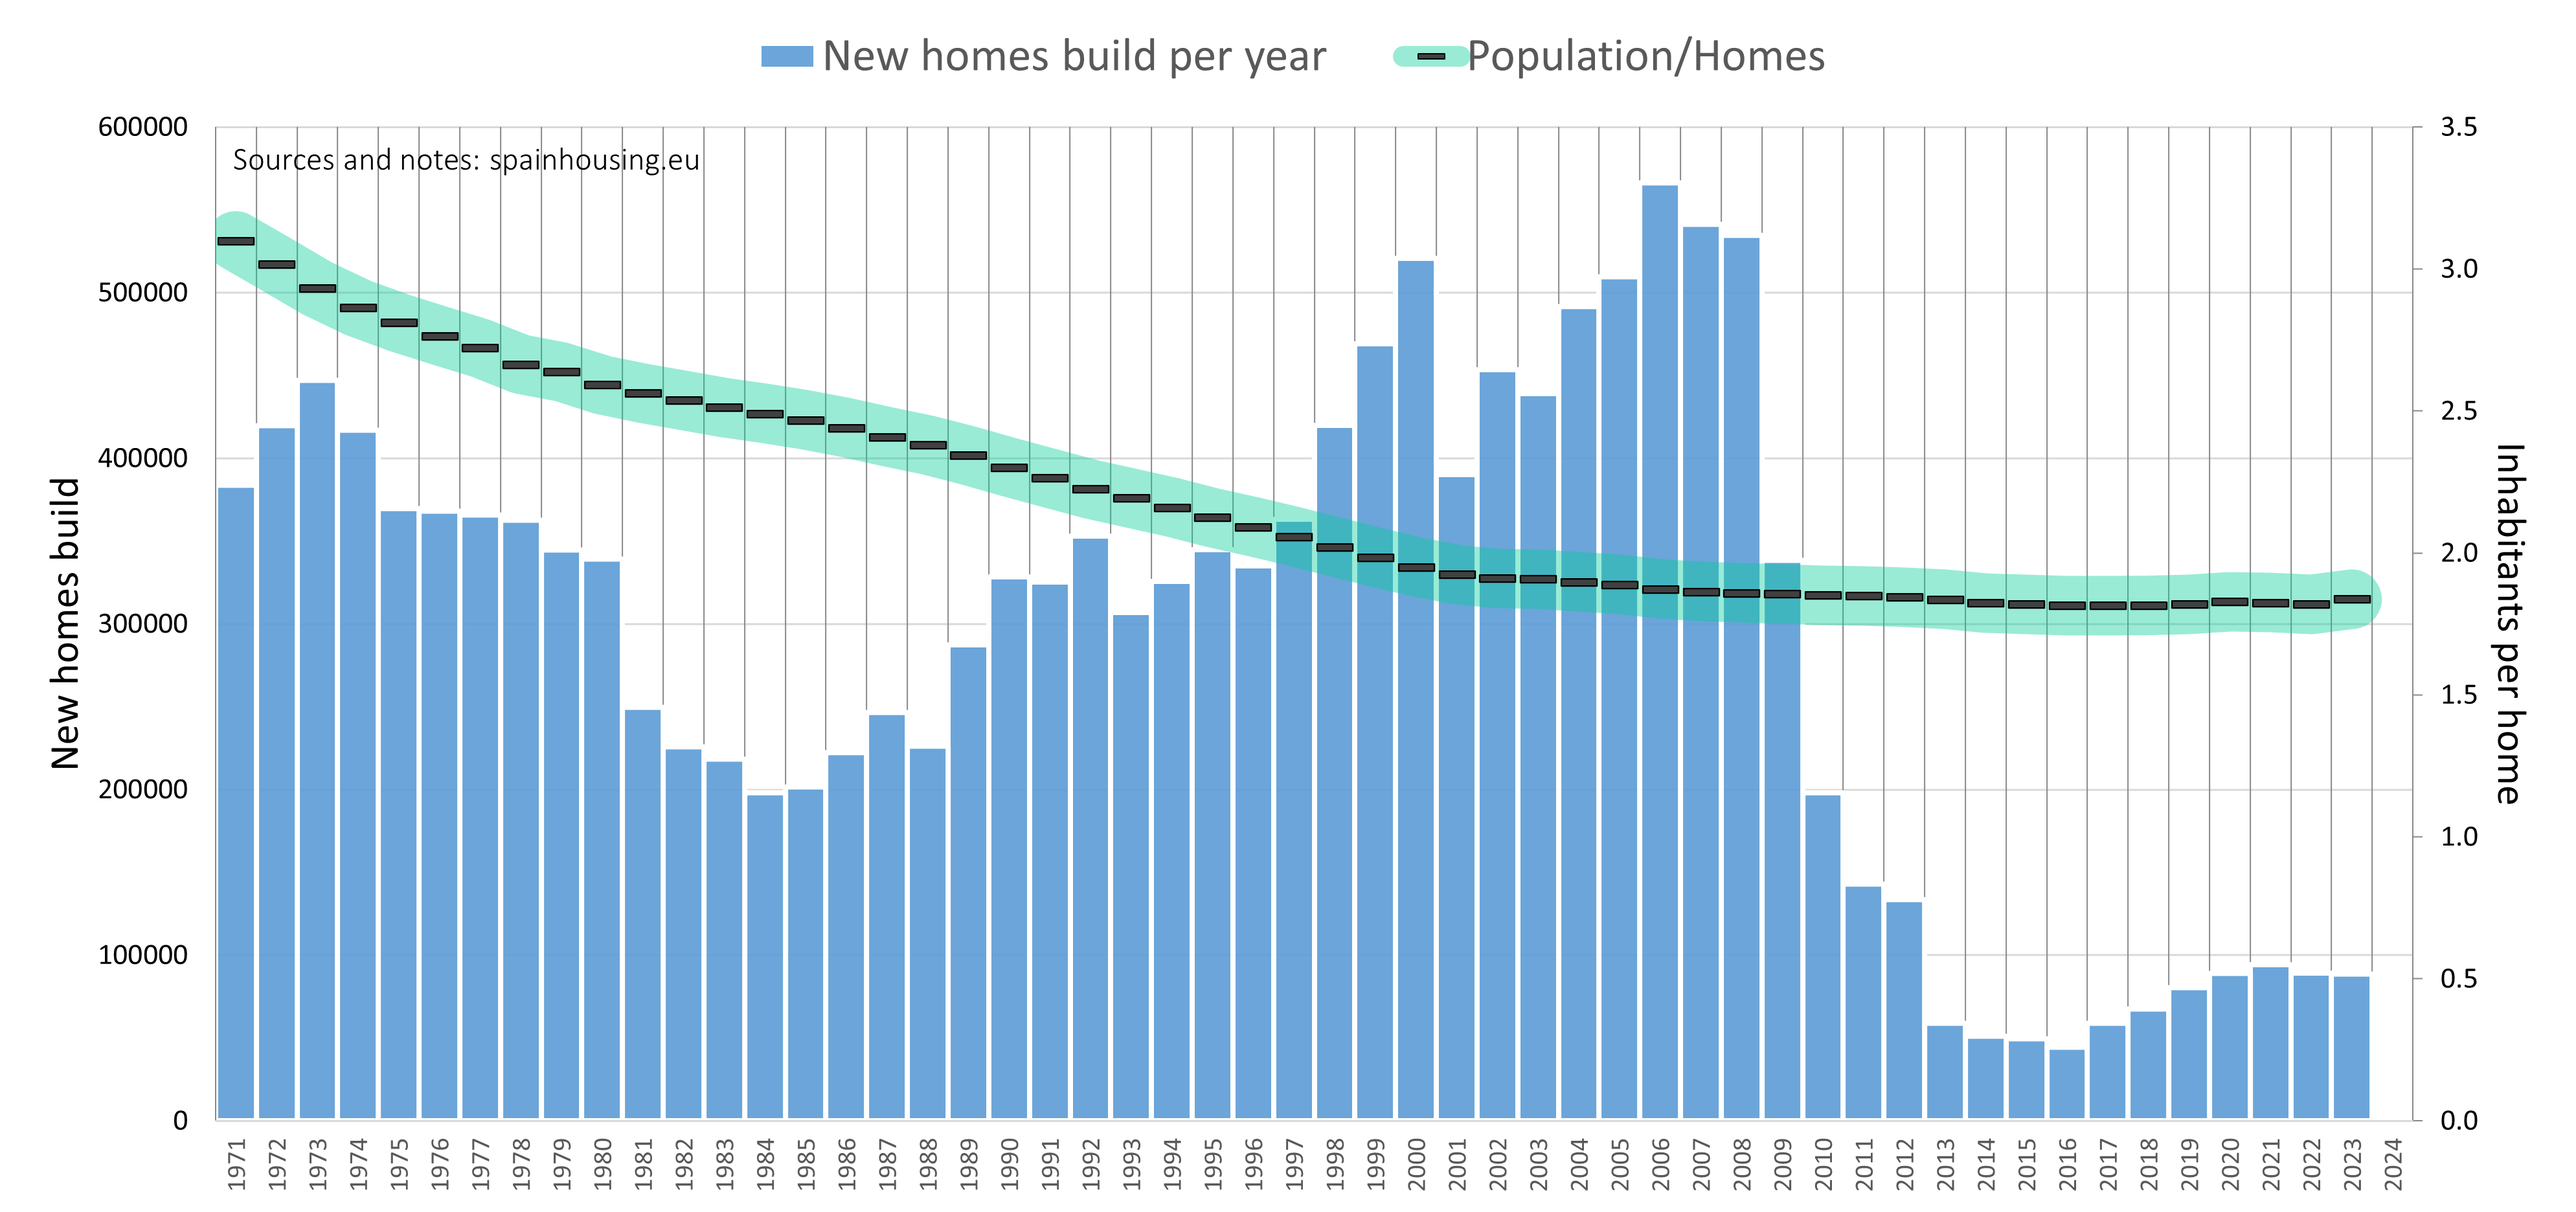
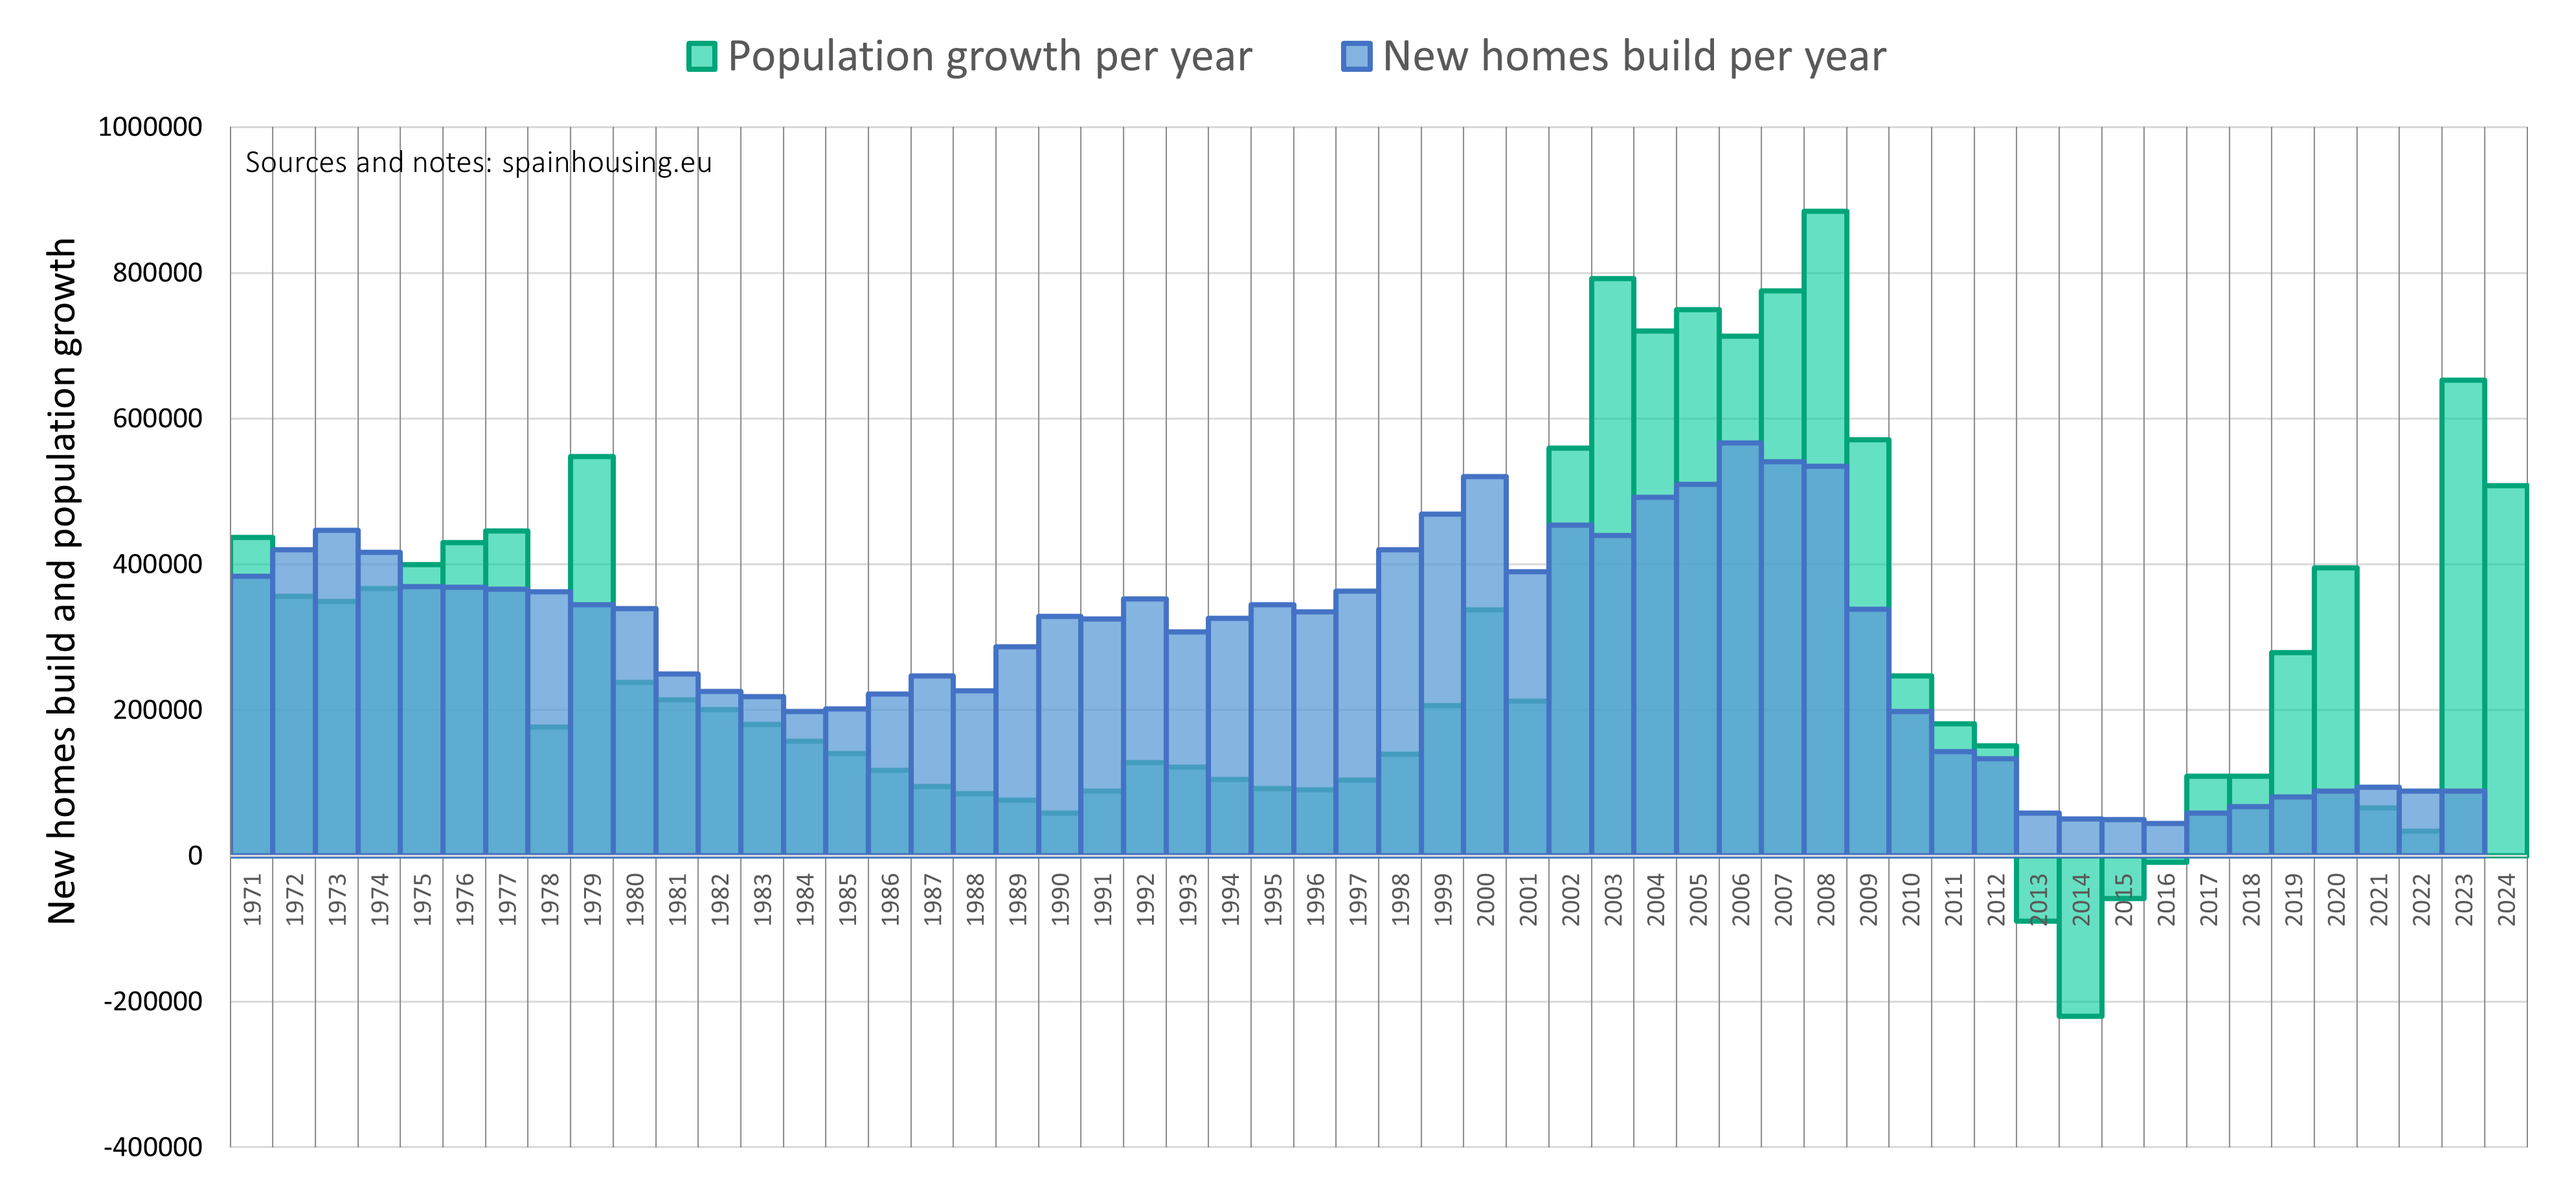
update

diff --git a/pages/posts/stock.md b/pages/posts/stock.md
@@ -14,10 +14,8 @@ import Image from 'next/image'
 
 [![Número de viviendas](/images/stockyearly.png)](/images/stockyearly.png)
 
-- **Number of dwellings**: new homes built annually since 1971.
-  - **Left axis (bars)**: total number of new dwellings per year.
-  - **Right axis (line)**: number of inhabitants per dwelling. Detailed map **[here](housescarcity)**.
-- **Observation**: the ratio of inhabitants per dwelling stopped decreasing in the middle 2010s, hinting disruption in the supply balance that could lead to price increases.
+- **Number of dwellings and population growth**: new homes built and population change year on year since 1971.
+- **Observation**: explore on this **[map](housescarcity)** the number of inhabitants per dwelling and municipality.
 
 [![Estoc y balance de viviendas](/images/stockbalance.png)](/images/stockbalance.png)
 

diff --git a/pages/posts/sitemap.md b/pages/posts/sitemap.md
@@ -12,8 +12,8 @@ author: Collection of all the 46 charts published in the site
 
 + _General models_
   * (1) [Multivariate model, housing overview](/images/multivariate.png)
-  * (2) [Rainbow model, short-term, housing cycles](/images/rainbow.png)
-  * (3) [Rainbow model, long-term, housing cycles](/images/rainbowmax.png)
+  * (2) [Housing cyles, peaks and troughs](/images/rainbow.png)
+  * (3) [Rainbow model, long-term](/images/rainbowmax.png)
 + _Price_
   * (4) [Annual evolution of housing prices](/images/priceyearly.png)
   * (5) [Case-Shiller housing index](/images/ipvvr.png)

diff --git a/pages/posts/credit.md b/pages/posts/credit.md
@@ -26,7 +26,7 @@ import Image from 'next/image'
 [![Burbuja inmobiliaria](/images/creditratio.png)](/images/creditratio.png)
 
 - **Ratio between mortgages and home sales**: if the ratio is (x), it means there a (x) mortgages per each (1) home sale.
-- **Observation**: the ratio _Mortgages/Sales_ hints the formation of real estate bubbles.
+- **Observation**: the ratio _Mortgages/Sales_ hints the formation of credit bubbles.
 
 [![Tipo de hipotecas firmadas](/images/typemortgage.png)](/images/typemortgage.png)
 
